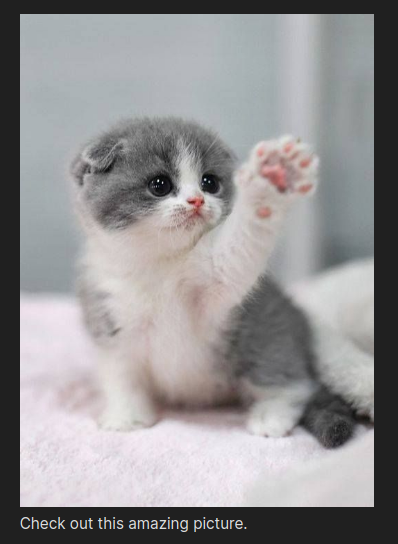
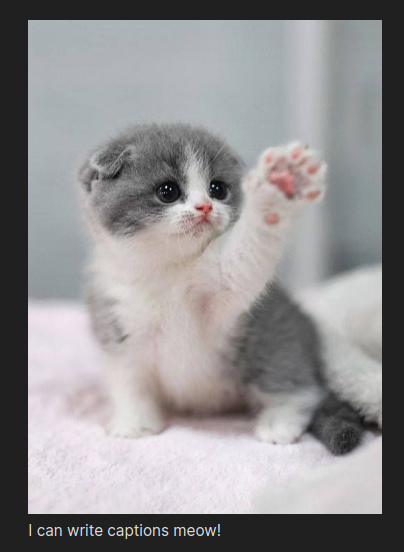
Added functionality for labels and styling. Disconnects observer on unload.

diff --git a/src/main.ts b/src/main.ts
@@ -5,13 +5,20 @@ import {
 	Setting
 } from 'obsidian';
 
-import processImageCaption from './md_processor';
+import {
+	captionObserver,
+	processImageCaption
+} from './md_processor';
 
 
 interface ImageCaptionSettings {
+	css: string;
+	label: string;
 }
 
 const DEFAULT_SETTINGS: ImageCaptionSettings = {
+	css: '',
+	label: ''
 }
 
 export default class ImageCaptionPlugin extends Plugin {
@@ -20,14 +27,15 @@ export default class ImageCaptionPlugin extends Plugin {
 	async onload() {
 		await this.loadSettings();
 
-		this.registerMarkdownPostProcessor( processImageCaption );
+		this.caption_observer = captionObserver();
+		this.registerMarkdownPostProcessor( processImageCaption( this.caption_observer ) );
 
-		// this.addSettingTab( new ImageCaptionSettingTab( this.app, this ) );
-
+		this.addStylesheet();
+		this.addSettingTab( new ImageCaptionSettingTab( this.app, this ) );
 	}
 
 	onunload() {
-
+		this.caption_observer.disconnect();
 	}
 
 	async loadSettings() {
@@ -36,6 +44,26 @@ export default class ImageCaptionPlugin extends Plugin {
 
 	async saveSettings() {
 		await this.saveData( this.settings );
+	}
+
+	addStylesheet() {
+		this.stylesheet = document.createElement( 'style' );
+		this.updateStylesheet();
+		document.head.append( this.stylesheet );
+	}
+
+	updateStylesheet() {
+		const base = 'figcaption.obsidian-image-caption';
+		const css = this.settings.css ? `${base} { ${this.settings.css} }` : '';
+
+		let label = this.settings.label;
+		if ( label ) {
+			const number_pattern = /(?<!\\)#/;
+			label = label.replace( number_pattern, "' attr(data-image_caption_index) '" );  // inner quotes used to kill string and insert attr. + between strings breaks it.
+			label = label ? `${base}::before { content: '${label} ' }` : '';  // additional space intentional
+		}
+
+		this.stylesheet.innerText = `${css} ${label}`;
 	}
 }
 
@@ -49,22 +77,33 @@ class ImageCaptionSettingTab extends PluginSettingTab {
 	}
 
 	display(): void {
-		// let { containerEl } = this;
+		let { containerEl } = this;
+		containerEl.empty();
 
-		// containerEl.empty();
+		new Setting( containerEl )
+			.setName( 'Label' )
+			.setDesc( 'Prepend this text before each captioned image.' )
+			.addText( ( text ) => text
+				.setPlaceholder( 'Label' )
+				.setValue( this.plugin.settings.label )
+				.onChange( async ( value ) => {
+					this.plugin.settings.label = value;
+					await this.plugin.saveSettings();
+					this.plugin.updateStylesheet();
+				} )
+			);
 
-		// containerEl.createEl('h2', {text: 'Settings for my awesome plugin.'});
-
-		// new Setting(containerEl)
-		// 	.setName('Setting #1')
-		// 	.setDesc('It\'s a secret')
-		// 	.addText(text => text
-		// 		.setPlaceholder('Enter your secret')
-		// 		.setValue(this.plugin.settings.mySetting)
-		// 		.onChange(async (value) => {
-		// 			console.log('Secret: ' + value);
-		// 			this.plugin.settings.mySetting = value;
-		// 			await this.plugin.saveSettings();
-		// 		}));
+		new Setting( containerEl )
+			.setName( 'CSS' )
+			.setDesc( 'Custom css styling' )
+			.addTextArea( ( text ) => text
+				.setPlaceholder('Enter your CSS' )
+				.setValue( this.plugin.settings.css )
+				.onChange( async ( value ) => {
+					this.plugin.settings.css = value.trim();
+					await this.plugin.saveSettings();
+					this.plugin.updateStylesheet();
+				} )
+			);
 	}
 }

diff --git a/src/md_processor.ts b/src/md_processor.ts
@@ -5,30 +5,36 @@ import {
 } from 'obsidian';
 
 
-const classListener = new MutationObserver( ( mutations ) => {
-	mutations.forEach( ( mutation ) => {
-		if ( !mutation.target.matches( 'span.image-embed' ) ) {
-			return;
-		}
+export function captionObserver() {
 
-		const caption_text = mutation.target.getAttribute( 'alt' );
-		if ( caption_text === mutation.target.getAttribute( 'src' ) ) {
-			// not user defined
-			return;
-		}
+	return new MutationObserver( ( mutations ) => {
+		mutations.forEach( ( mutation ) => {
+			if ( !mutation.target.matches( 'span.image-embed' ) ) {
+				return;
+			}
 
-		if ( mutation.target.querySelector( 'figcaption.obsidian-image-caption' ) ) {
-			// caption already added
-			return;
-		}
+			const caption_text = mutation.target.getAttribute( 'alt' );
+			if ( caption_text === mutation.target.getAttribute( 'src' ) ) {
+				// default caption, skip
+				return;
+			}
 
-		addCaption( mutation.target, caption_text );
+			if ( mutation.target.querySelector( 'figcaption.obsidian-image-caption' ) ) {
+				// caption already added
+				return;
+			}
 
-	} );  // end forEach
-} );
+			addCaption( mutation.target, caption_text );
+			updateFigureIndices();
+		} );  // end forEach
+	} );
+}
 
 
-function addCaption( target: HTMLElement, caption_text: string ): HTMLElement {
+function addCaption(
+	target: HTMLElement,
+	caption_text: string,
+): HTMLElement {
 	const caption = document.createElement( 'figcaption' );
 	caption.addClass( 'obsidian-image-caption' );
 	caption.innerText = caption_text;
@@ -38,19 +44,39 @@ function addCaption( target: HTMLElement, caption_text: string ): HTMLElement {
 }
 
 
-export default function processImageCaption (
-	el: HTMLElement,
-	ctx: MarkdownPostProcessorContext
-): void {
-
-	el.querySelectorAll( 'span.internal-embed' ).forEach(
-		( container: HTMLElement ) => {
-			// must listen for class changes because images
-			// may be loaded after this run
-			classListener.observe(
-				container,
-				{ attributes: true, attributesFilter: [ 'class' ] }
+function updateFigureIndices() {
+	document.querySelectorAll( 'div.workspace-leaf' ).forEach(
+		( container : HTMLElement ) => {
+			let index = 1;
+			container.querySelectorAll( 'figcaption.obsidian-image-caption' ).forEach(
+				( el: HTMLElement ) => {
+					el.dataset.image_caption_index = index;
+					index += 1;
+				}
 			);
 		}
 	);
+}
+
+
+export function processImageCaption(
+	observer: MutationObserver
+): ( el: HTMLElement, ctx: MarkdownPostProcessorContext ) => void {
+
+	return function (
+		el: HTMLElement,
+		ctx: MarkdownPostProcessorContext
+	): void {
+
+		el.querySelectorAll( 'span.internal-embed' ).forEach(
+			( container: HTMLElement ) => {
+				// must listen for class changes because images
+				// may be loaded after this run
+				observer.observe(
+					container,
+					{ attributes: true, attributesFilter: [ 'class' ] }
+				);
+			}
+		);
+	};
 }
